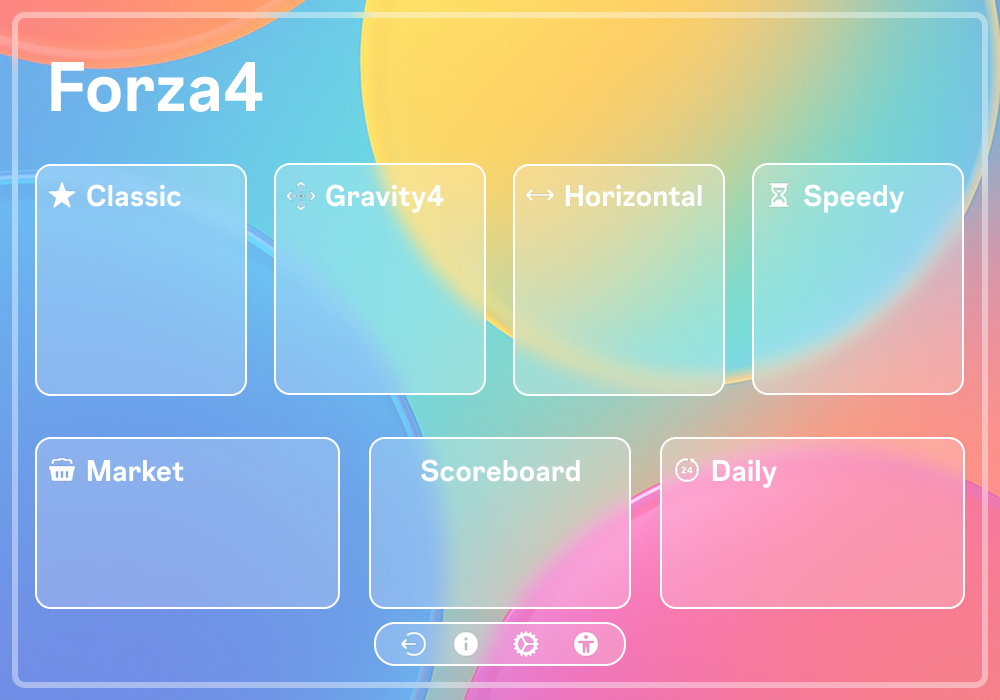
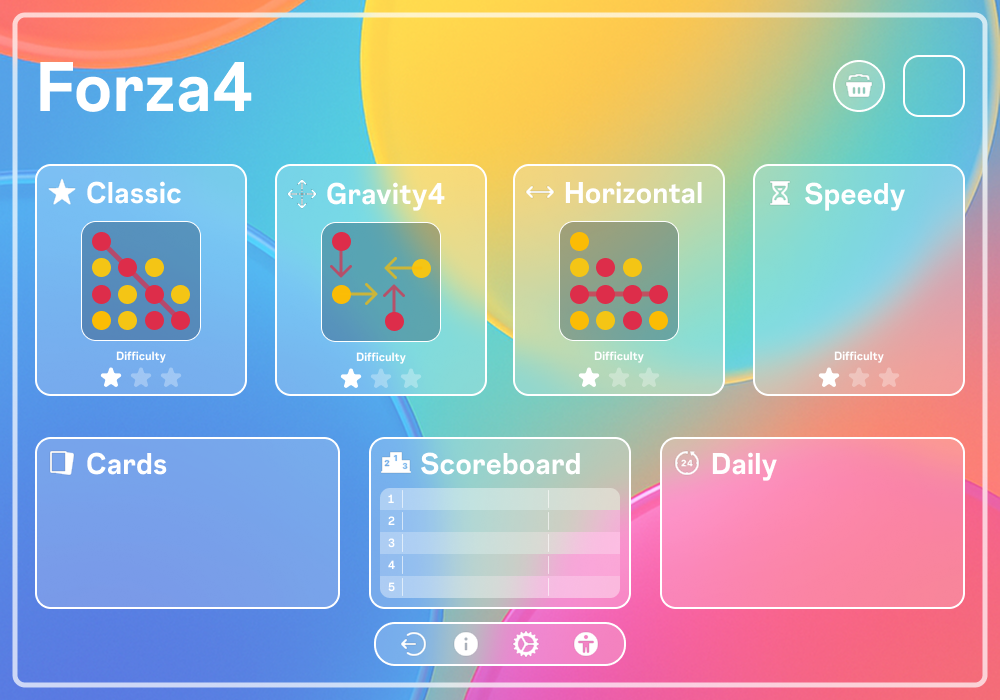
v 1.0.2 - lavoro 17/12/2025 - luca

diff --git a/core/src/main/sorgente/Lobby/LobbyUI.java b/core/src/main/sorgente/Lobby/LobbyUI.java
@@ -20,7 +20,7 @@ public class LobbyUI extends ScreenAdapter implements ResourceLoader
     private boolean cursorVisible = true;
     private final LobbyInput lobbyInput;
 
-    private Texture lobby,big_clicked,big_hover,center_clicked,center_hover,mode_clicked,mode_hover;
+    private Texture lobby, big_clicked, big_hover, center_clicked, center_hover, mode_clicked, mode_hover;
 
     public LobbyUI(Main game) {
         this.game = game;
@@ -48,11 +48,11 @@ public class LobbyUI extends ScreenAdapter implements ResourceLoader
 
     }
 
-    private void drawHover(Texture texture, boolean hover, float x, float y, float width, float height)
+    private void drawHover(Texture texture, boolean hover, float x, float y)
     {
         if (hover)
         {
-            screen.draw(texture, x, y, width, height);
+            screen.draw(texture, x, y);
         }
     }
 
@@ -66,28 +66,24 @@ public class LobbyUI extends ScreenAdapter implements ResourceLoader
         screen.draw(lobby, 0, 0);
 
         // --- GAME MODES ---
-        drawHover(mode_hover, lobbyInput.classicHover,     37, 305, 209, 230);
-        drawHover(mode_hover, lobbyInput.gravity4Hover,   275, 305, 209, 230);
-        drawHover(mode_hover, lobbyInput.horizontalHover, 512, 305, 211, 230);
-        drawHover(mode_hover, lobbyInput.speedyHover,     752, 305, 211, 230);
+        drawHover(mode_hover, lobbyInput.classicHover,    35, 304);
+        drawHover(mode_hover, lobbyInput.gravity4Hover,   275, 304);
+        drawHover(mode_hover, lobbyInput.horizontalHover, 513, 304);
+        drawHover(mode_hover, lobbyInput.speedyHover,     753, 304);
 
         // --- SECONDARY BUTTONS ---
-        drawHover(big_hover,    lobbyInput.marketHover,     37,  90, 301, 172);
-        drawHover(center_hover, lobbyInput.scoreboardHover, 370, 90, 260, 172);
-        drawHover(big_hover,    lobbyInput.dailyHover,      660, 90, 302, 172);
+        drawHover(big_hover,    lobbyInput.marketHover,     35,  91);
+        drawHover(center_hover, lobbyInput.scoreboardHover, 369, 91);
+        drawHover(big_hover,    lobbyInput.dailyHover,      660, 91);
 
         // --- BOTTOM ICONS ---
-        drawHover(center_hover, lobbyInput.exitHover,        397, 649, 30, 40);
-        drawHover(center_hover, lobbyInput.informationHover, 459, 637, 30, 40);
-        drawHover(center_hover, lobbyInput.manHover,         584, 649, 30, 40);
-        drawHover(center_hover, lobbyInput.settingsHover,    519, 649, 30, 40);
+        drawHover(center_hover, lobbyInput.exitHover,          397, 649);
+        drawHover(center_hover, lobbyInput.informationHover,   459, 637);
+        drawHover(center_hover, lobbyInput.accessibilityHover, 584, 649);
+        drawHover(center_hover, lobbyInput.settingsHover,      519, 649);
 
         screen.end();
     }
-
-
-
-
 
     @Override
     public void dispose()

diff --git a/core/src/main/sorgente/Lobby/LobbyInput.java b/core/src/main/sorgente/Lobby/LobbyInput.java
@@ -35,7 +35,7 @@ public class LobbyInput implements InputProcessor
     protected boolean settingsHover;
     protected boolean informationHover;
     protected boolean exitHover;
-    protected boolean manHover;
+    protected boolean accessibilityHover;
 
     private final Pixmap mouse;
     private final Cursor cursor;
@@ -103,7 +103,7 @@ public class LobbyInput implements InputProcessor
     {
         classicHover = gravity4Hover = horizontalHover = speedyHover = false;
         marketHover = scoreboardHover = dailyHover = false;
-        settingsHover = informationHover = exitHover = manHover = false;
+        settingsHover = informationHover = exitHover = accessibilityHover = false;
     }
 
 
@@ -159,7 +159,7 @@ public class LobbyInput implements InputProcessor
         }
 
         if (manArea.contains(screenX, screenY)) {
-            manHover = true;
+            accessibilityHover = true;
             return true;
         }
 
@@ -236,14 +236,16 @@ public class LobbyInput implements InputProcessor
         if (exitArea.contains(x, y))
         {
             exit = true;
-            log.info("Exit cliccato!");
+            // IMPORTANTE! LA POSIZIONE DEVE ESSERE ESATTAMENTE IL CENTRO DELLO SCHERMO (1000/2-widthImg/2, 700/2-heightImg/2)
+            log.info("Exit cliccato!"); // todo: stampare da LobbyUI la grafica logout.png
             return true;
         }
 
         if (informationArea.contains(x, y))
         {
             information = true;
-            log.info("Information cliccato!");
+            // IMPORTANTE! LA POSIZIONE DEVE ESSERE ESATTAMENTE IL CENTRO DELLO SCHERMO
+            log.info("Information cliccato!"); // todo: stampare da LobbyUI la grafica software_infos.png
             return true;
         }
 
